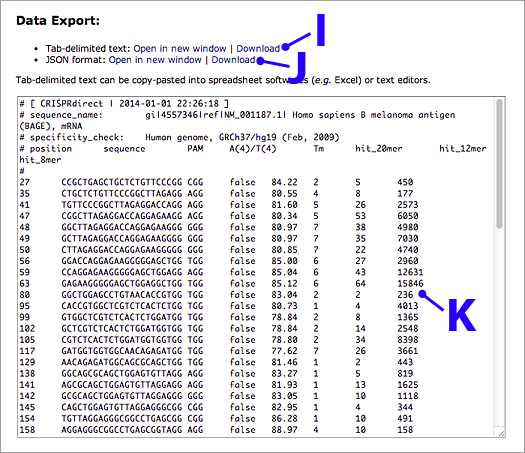
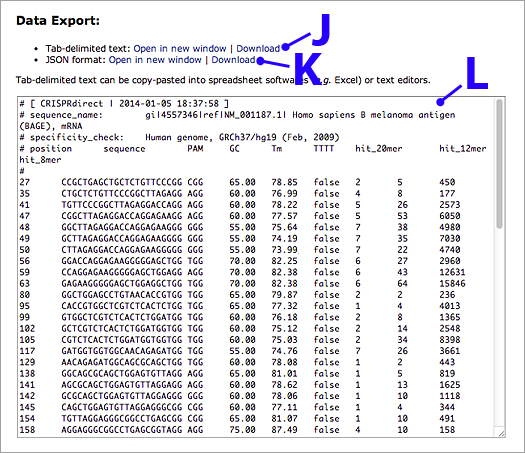
ヘルプの画像を更新、ゲノムのリストを追加
結果のTABLE変更にあわせて画像を更新
特異性確認用ゲノムデータベースのリストを追加

diff --git a/doc/index.html b/doc/index.html
@@ -62,8 +62,9 @@
 <ol type=A>
 	<li>Target positions.
 	<li>Target sequences, 20mer + 3mer PAM (total 23mer).
-	<li>Presence or absence of AAAA or TTTT in the target sequence. Avoid these sequences for gRNA vectors with pol III promoter.
+	<li>GC content of the target 20mer.
 	<li>Calculated Tm of the target 20mer.
+	<li>Presence or absence of TTTT in the target sequence. Avoid TTTT for gRNA vectors with pol III promoter.
 	<li>Off-target search results against human genome. Number of hits with perfect match is shown.
 	<ul>
 		<li>20mer+PAM: The target 20mer is searched against the genome.<br>
@@ -81,7 +82,7 @@
 
 <img src='CRISPR_BAGE_result1.png' width=525 height=306 border=0>
 
-<ol type=A start=6>
+<ol type=A start=7>
 	<li>Only one hit in the 20mer and the 12mer columns. These targets are highly specific.<br>
 		<font color=brown>&rarr; Recommended for CRISPR/Cas target.</font>
 	<li>No hit in the 20mer column. Possibly the sequences over exon-exon junction, so avoid using these ones.<br>
@@ -94,13 +95,64 @@
 
 <h4>Saving and exporting the results</h4>
 
-<ol type=A start=9>
+<ol type=A start=10>
 	<li>Tab-delimited text can be shown or downloaded as a file.
 	<li>JSON format output is also available.
-	<li>Tab-delimited text ready-to-use for copy-pasting into Excel or text editors, etc.
+	<li>Tab-delimited text, ready-to-use for copy-pasting into Excel or text editors, etc.
 </ol>
 
 <img src='CRISPR_BAGE_tsv.png' width=525 height=453 border=0>
+
+
+<h3>Methods</h3>
+
+<h4>Specificity check</h4>
+
+<p>Number of off-target hits are displayed for following species:</p>
+
+<ul>
+	<li><b>Human genome</b>, GRCh37/hg19 (Feb, 2009)<br>
+		<a target='_blank' href='ftp://hgdownload.soe.ucsc.edu/goldenPath/hg19/bigZips/chromFa.tar.gz'>
+		ftp://hgdownload.soe.ucsc.edu/goldenPath/hg19/bigZips/chromFa.tar.gz</a>
+	<li><b>Mouse genome</b>, GRCm38/mm10 (Dec, 2011)<br>
+		<a target='_blank' href='ftp://hgdownload.soe.ucsc.edu/goldenPath/mm10/bigZips/chromFa.tar.gz'>
+		ftp://hgdownload.soe.ucsc.edu/goldenPath/mm10/bigZips/chromFa.tar.gz</a>
+	<li><b>Rat genome</b>, RGSC 5.0/rn5 (Mar, 2012)<br>
+		<a target='_blank' href='ftp://hgdownload.soe.ucsc.edu/goldenPath/rn5/bigZips/chromFa.tar.gz'>
+		ftp://hgdownload.soe.ucsc.edu/goldenPath/rn5/bigZips/chromFa.tar.gz</a>
+	<li><b>Chicken genome</b>, ICGSC Gallus_gallus-4.0/galGal4 (Nov, 2011)<br>
+		<a target='_blank' href='ftp://hgdownload.soe.ucsc.edu/goldenPath/galGal4/bigZips/galGal4.fa.gz'>
+		ftp://hgdownload.soe.ucsc.edu/goldenPath/galGal4/bigZips/galGal4.fa.gz</a>
+	<li><b><i>Xenopus tropicalis</i> genome</b>, JGI 4.2/xenTro3 (Nov, 2009)<br>
+		<a target='_blank' href='ftp://hgdownload.soe.ucsc.edu/goldenPath/xenTro3/bigZips/xenTro3.fa.gz'>
+		ftp://hgdownload.soe.ucsc.edu/goldenPath/xenTro3/bigZips/xenTro3.fa.gz</a>
+	<li><b>Zebrafish genome</b>, Zv9/danRer7 (Jul, 2010)<br>
+		<a target='_blank' href='ftp://hgdownload.soe.ucsc.edu/goldenPath/danRer7/bigZips/danRer7.fa.gz'>
+		ftp://hgdownload.soe.ucsc.edu/goldenPath/danRer7/bigZips/danRer7.fa.gz</a>
+	<li><b><i>Ciona intestinalis</i> genome</b>, JGI 2.1/ci2 (Mar, 2005)<br>
+		<a target='_blank' href='ftp://hgdownload.soe.ucsc.edu/goldenPath/ci2/bigZips/ScaffoldFa.zip'>
+		ftp://hgdownload.soe.ucsc.edu/goldenPath/ci2/bigZips/ScaffoldFa.zip</a>
+	<li><b><i>Drosophila</i> genome</b>, BDGP R5/dm3 (Apr, 2006)<br>
+		<a target='_blank' href='ftp://hgdownload.soe.ucsc.edu/goldenPath/dm3/bigZips/chromFa.tar.gz'>
+		ftp://hgdownload.soe.ucsc.edu/goldenPath/dm3/bigZips/chromFa.tar.gz</a>
+	<li><b><i>C. elegans</i> genome</b>, WS220/ce10 (Oct, 2010)<br>
+		<a target='_blank' href='ftp://hgdownload.soe.ucsc.edu/goldenPath/ce10/bigZips/chromFa.tar.gz'>
+		ftp://hgdownload.soe.ucsc.edu/goldenPath/ce10/bigZips/chromFa.tar.gz</a>
+	<li><b><i>Arabidopsis thaliana</i> genome</b>, TAIR10 (Nov, 2010)<br>
+		<a target='_blank' href='ftp://ftp.arabidopsis.org/home/tair/Sequences/whole_chromosomes/'>
+		ftp://ftp.arabidopsis.org/home/tair/Sequences/whole_chromosomes</a>/*.fas
+	<li><b>Rice genome</b>, Os-Nipponbare-Reference-IRGSP-1.0 (Oct, 2011)<br>
+		Genome assemblies (12 chromosomes) + Unanchored sequences from<br>
+		<a target='_blank' href='http://rapdb.dna.affrc.go.jp/download/irgsp1.html'>
+		http://rapdb.dna.affrc.go.jp/download/irgsp1.html</a>
+	<li><b>Silkworm genome</b>, Bmor1 (Apr, 2008)<br>
+		Bombyx_mori.Bmor1.17.dna.toplevel.fa.gz from<br>
+		<a target='_blank' href='ftp://ftp.ensemblgenomes.org/pub/metazoa/release-17/fasta/bombyx_mori/dna/'>
+		ftp://ftp.ensemblgenomes.org/pub/metazoa/release-17/fasta/bombyx_mori/dna/</a>
+	<li><b><i>S. cerevisiae</i> (S288C) genome</b>, sacCer3 (Apr, 2011)<br>
+		<a target='_blank' href='ftp://hgdownload.soe.ucsc.edu/goldenPath/sacCer3/bigZips/chromFa.tar.gz'>
+		ftp://hgdownload.soe.ucsc.edu/goldenPath/sacCer3/bigZips/chromFa.tar.gz</a>
+</ul>
 
 
 <h3>Useful tools</h3>
